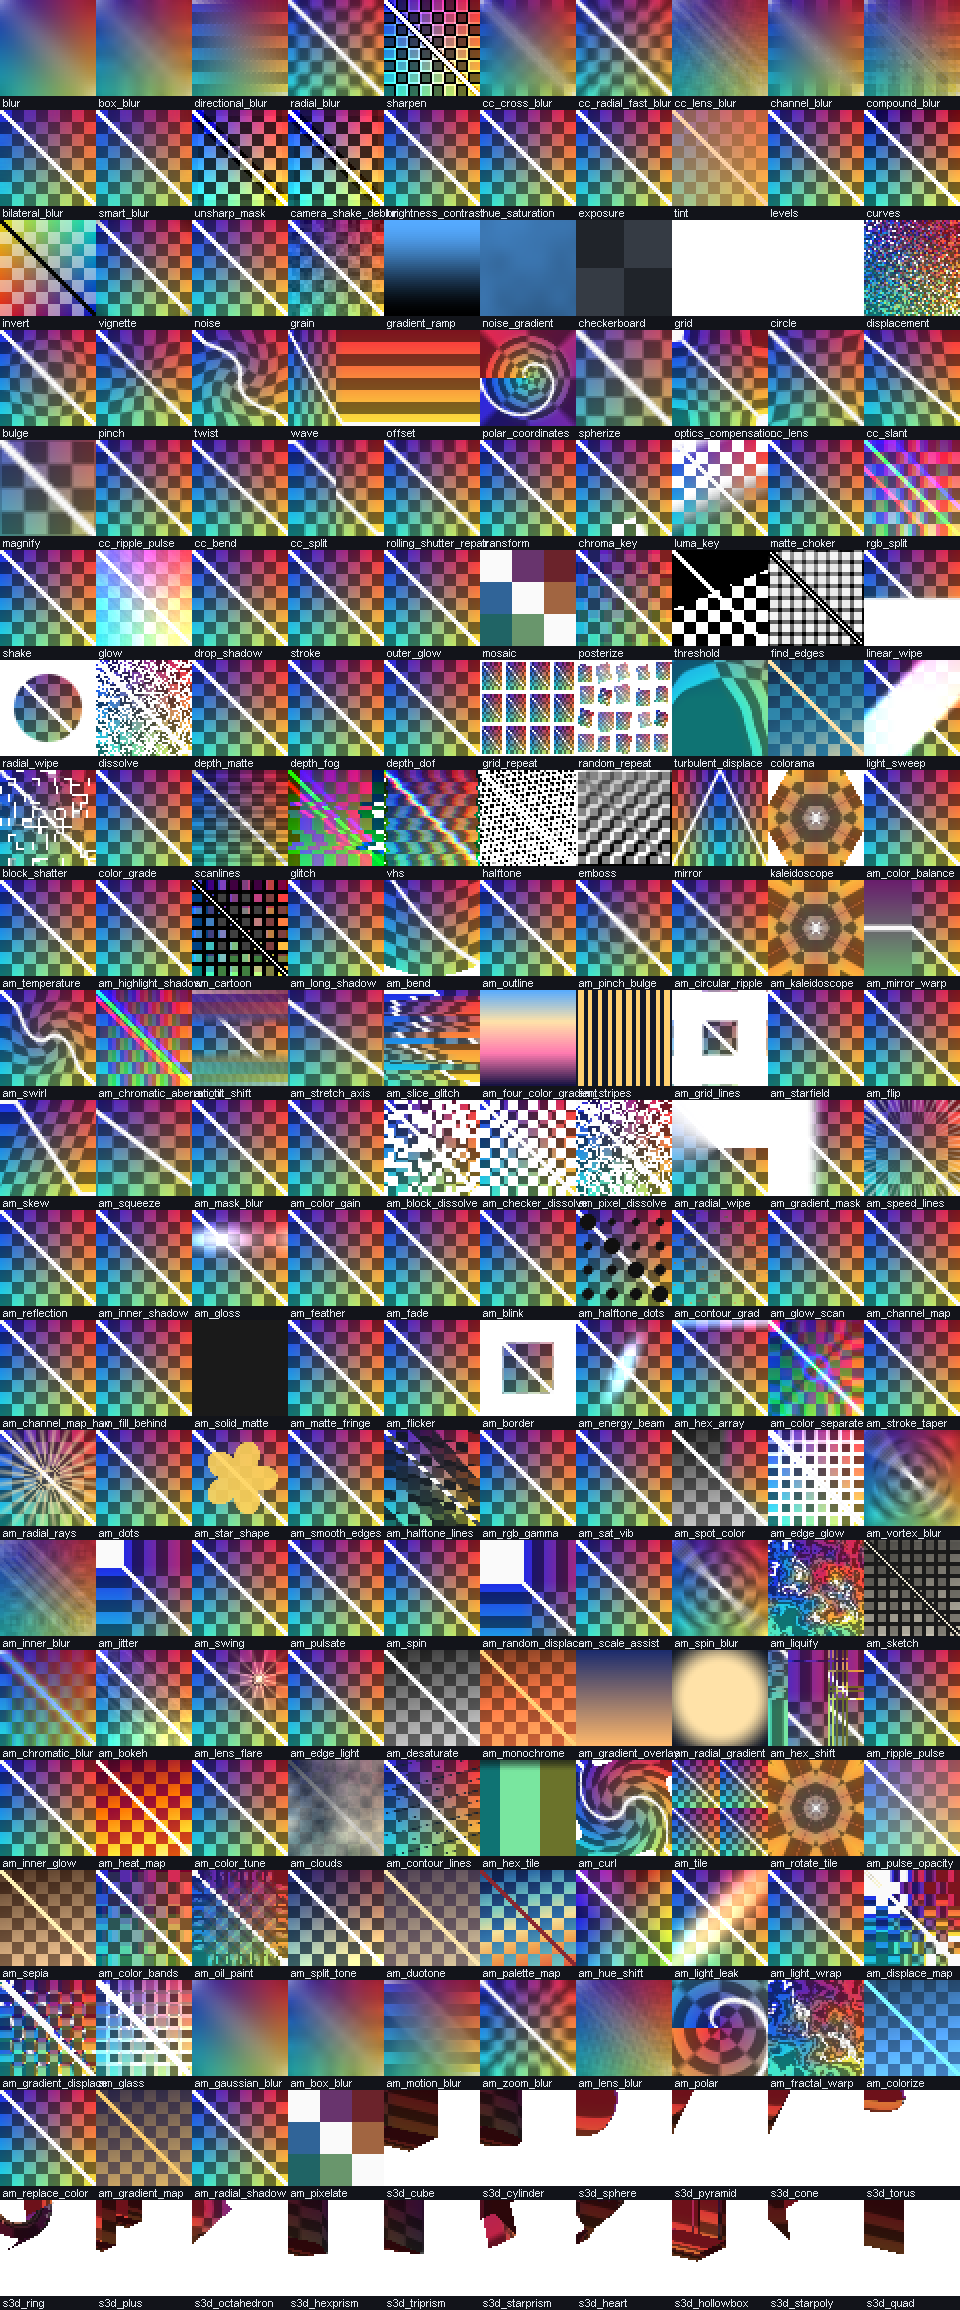
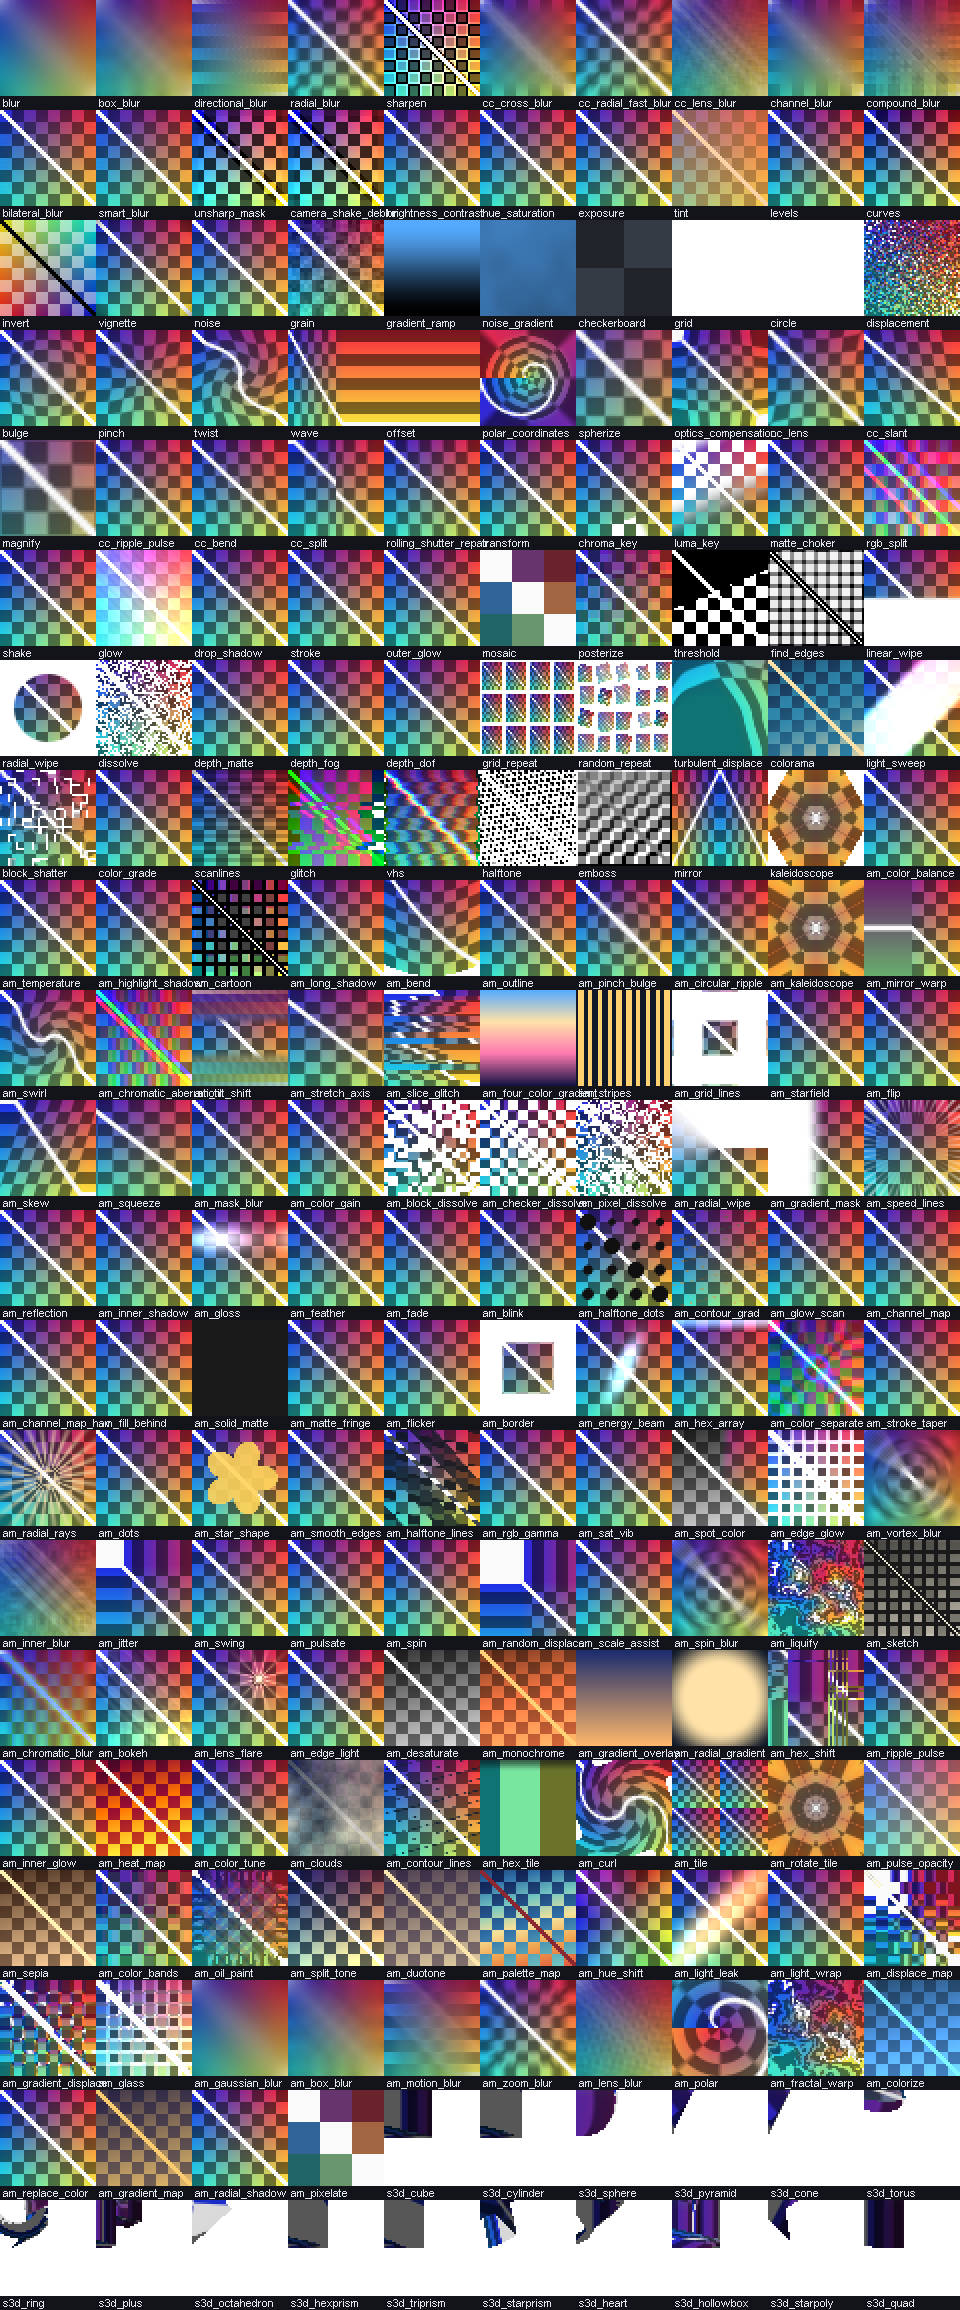
feat(0.61): 3D shape effects now work on 2D layers too
- Composition-space mesh effects render into a layer-sized surface first, then place that surface as
  a quad at the layer's projected rectangle. The old path sampled the whole composition on every
  face, which is why 2D layers showed wrong content.
- Fixed a real fragment-shader bug: uv = uv * repeat + 0.5 shifted every textured mesh sample into
  the wrong quadrant (blank/misplaced shapes). It is now (uv - 0.5) * repeat + 0.5 + offset, an
  identity at the defaults. The same textual replacement had leaked into the distort and wave
  shaders (undefined uniforms); both were reverted, which the link tests caught.
- Evidence: docs/verify/round34-all-shapes.png shows all 16 primitives in one frame on 2D layers;
  docs/verify/round34-cube3d.png is the baked 3D path.
- New debug: bbsaeAllShapes grid scenario and surface dumping; project data backed up/restored
  around every client run.
- 334 tests green; 130 effects. Release bbsae-0.61.jar
  (SHA-256 AA76C86A8051468E2CEE6D6D11E37ECB5CA454B639FBD1CE9B3A4867E8DA1784).

diff --git a/src/main/java/dev/bbsae/client/render/MeshRenderer.java b/src/main/java/dev/bbsae/client/render/MeshRenderer.java
@@ -14,10 +14,18 @@ import java.util.Map;
  * Renders the 3D shape effects ({@code s3d_*}).
  *
  * <p>A shape effect replaces the layer's flat raster with a textured primitive: the layer content
- * is the surface texture, the primitive is placed at the layer's bounds and transformed by the same
- * world matrix and projection the layer itself uses. Meshes are convex, so back-face culling alone
- * resolves occlusion and the existing colour-only framebuffers are enough (no depth attachment, no
- * changes to the render graph).</p>
+ * is the surface texture, the primitive is placed at the layer's bounds. Meshes are convex, so
+ * back-face culling alone resolves occlusion and the colour-only framebuffers are enough.</p>
+ *
+ * <p>Two entry paths exist:</p>
+ * <ul>
+ *   <li><b>layer-local bake</b> (3D layers): the input is the layer's own raster, so the primitive
+ *       is drawn with an ortho projection that fills it;</li>
+ *   <li><b>composition pass</b> (2D layers): the input is a composition-sized framebuffer, so the
+ *       primitive is first drawn into a layer-sized target and that target is then drawn as a quad
+ *       at the layer's projected rectangle. Sampling the composition directly stretched the whole
+ *       composition across every face, which was the "3D effect looks wrong on 2D layers" bug.</li>
+ * </ul>
  */
 public final class MeshRenderer
 {
@@ -65,96 +73,150 @@ public final class MeshRenderer
 
         String shape = effect.type.substring(4);
         Mesh mesh = mesh(shape);
-        GlFramebuffer output = FboPool.acquire(input.width, input.height);
-
-        /* Two coordinate spaces reach this renderer:
-         * - the layer-local bake (3D layers, styles): the input IS the layer raster, so the
-         *   primitive simply fills it with an ortho projection;
-         * - the composition pass (2D layers): the input is comp-space, so the primitive is placed
-         *   inside the layer's projected screen bounds.
-         * Using the camera/model matrix in the bake was the bug that made 3D shapes tiny and
-         * offset: their pixels were layer-local but the matrix was composition-space. */
-        boolean local = context.layerLocalPass;
-        float targetWidth = Math.max(1F, output.width);
-        float targetHeight = Math.max(1F, output.height);
-        Matrix4f projection;
-        float centreX;
-        float centreY;
-        float width;
-        float height;
-
-        if (local)
-        {
-            projection = new Matrix4f().setOrtho(0F, targetWidth, targetHeight, 0F, -10000F, 10000F);
-            centreX = targetWidth * 0.5F;
-            centreY = targetHeight * 0.5F;
-            width = targetWidth;
-            height = targetHeight;
-        }
-        else
-        {
-            projection = new Matrix4f().setOrtho(0F, targetWidth, targetHeight, 0F, -10000F, 10000F);
-            float halfW = Math.max(1F, Math.abs(layer.width)) * 0.5F;
-            float halfH = Math.max(1F, Math.abs(layer.height)) * 0.5F;
-            Vector2f centre = CompScene.project(context, layer, 0F, 0F, 0F);
-            float scaleX = targetWidth / Math.max(1F, context.width);
-            float scaleY = targetHeight / Math.max(1F, context.height);
-            centreX = centre.x * scaleX;
-            centreY = centre.y * scaleY;
-            width = Math.max(1F, halfW * 2F * scaleX);
-            height = Math.max(1F, halfH * 2F * scaleY);
-        }
-
-        float depth = Math.max(1F, height * Math.max(0.05F, effect.valueF("depth", 0.5F)));
         float scale = Math.max(0.01F, effect.valueF("scale", 1F));
+        float depthFactor = Math.max(0.05F, effect.valueF("depth", 0.5F));
 
-        Matrix4f localMatrix = new Matrix4f()
-            .translate(centreX, centreY, 0F)
+        Matrix4f layerProjection = CompScene.projection(context, layer);
+        Matrix4f layerModel = CompScene.model(context, layer);
+        Matrix4f layerMvp = new Matrix4f(layerProjection).mul(layerModel);
+        float compWidth = Math.max(1F, context.width);
+        float compHeight = Math.max(1F, context.height);
+        float halfW = Math.abs(layer.width) * 0.5F;
+        float halfH = Math.abs(layer.height) * 0.5F;
+        float minX = Float.MAX_VALUE;
+        float minY = Float.MAX_VALUE;
+        float maxX = -Float.MAX_VALUE;
+        float maxY = -Float.MAX_VALUE;
+
+        for (int i = 0; i < 4; i++)
+        {
+            float x = (i == 0 || i == 3) ? -halfW : halfW;
+            float y = (i < 2) ? -halfH : halfH;
+            org.joml.Vector4f p = layerMvp.transform(new org.joml.Vector4f(x, y, 0F, 1F));
+            float w = Math.abs(p.w) < 0.0001F ? 1F : p.w;
+            float ndcX = p.x / w;
+            float ndcY = p.y / w;
+            float px = (ndcX * 0.5F + 0.5F) * compWidth;
+            float py = (1F - (ndcY * 0.5F + 0.5F)) * compHeight;
+
+            minX = Math.min(minX, px);
+            maxX = Math.max(maxX, px);
+            minY = Math.min(minY, py);
+            maxY = Math.max(maxY, py);
+        }
+
+        float rectWidth = Math.max(1F, maxX - minX);
+        float rectHeight = Math.max(1F, maxY - minY);
+        Vector2f surfaceUvScale = new Vector2f(rectWidth / compWidth, -rectHeight / compHeight);
+        Vector2f surfaceUvOffset = new Vector2f(minX / compWidth, 1F - minY / compHeight);
+
+        if (context.layerLocalPass)
+        {
+            /* The input is the layer raster: fill it with the primitive. */
+            float width = Math.max(1F, input.width);
+            float height = Math.max(1F, input.height);
+            GlFramebuffer output = FboPool.acquire(input.width, input.height);
+            Matrix4f projection = new Matrix4f().setOrtho(0F, width, height, 0F, -10000F, 10000F);
+            Matrix4f model = new Matrix4f()
+                .translate(width * 0.5F, height * 0.5F, 0F)
+                .rotateX((float) Math.toRadians(effect.valueF("rotate_x", 0F)))
+                .rotateY((float) Math.toRadians(effect.valueF("rotate_y", 0F)))
+                .rotateZ((float) Math.toRadians(effect.valueF("rotate_z", 0F)))
+                .scale(width * scale, height * scale, Math.max(1F, height * depthFactor) * scale);
+
+            drawMesh(program, mesh, new Matrix4f(projection).mul(model), input, output, effect, false,
+                new Vector2f(1F, 1F), new Vector2f(0F, 0F));
+
+            return output;
+        }
+
+        /* Composition pass: draw the primitive into a layer-sized target first, then place that
+         * target as a quad at the layer's projected rectangle. */
+        float scaleX = input.width / compWidth;
+        float scaleY = input.height / compHeight;
+        int layerWidth = Math.max(1, Math.round(Math.abs(layer.width) * scaleX));
+        int layerHeight = Math.max(1, Math.round(Math.abs(layer.height) * scaleY));
+        GlFramebuffer surface = FboPool.acquire(layerWidth, layerHeight);
+        Matrix4f surfaceProjection = new Matrix4f().setOrtho(0F, layerWidth, layerHeight, 0F, -10000F, 10000F);
+        Matrix4f surfaceModel = new Matrix4f()
+            .translate(layerWidth * 0.5F, layerHeight * 0.5F, 0F)
             .rotateX((float) Math.toRadians(effect.valueF("rotate_x", 0F)))
             .rotateY((float) Math.toRadians(effect.valueF("rotate_y", 0F)))
             .rotateZ((float) Math.toRadians(effect.valueF("rotate_z", 0F)))
-            .scale(width * scale, height * scale, depth * scale);
-        Matrix4f mvp = new Matrix4f(projection).mul(localMatrix);
+            .scale(layerWidth * scale, layerHeight * scale, Math.max(1F, layerHeight * depthFactor) * scale);
 
-        if (Boolean.getBoolean("bbsae.debugMeshLog"))
+        drawMesh(program, surfaceMesh(shape), new Matrix4f(surfaceProjection).mul(surfaceModel), input, surface, effect, false,
+            surfaceUvScale, surfaceUvOffset);
+
+        if (Boolean.getBoolean("bbsae.debugDumpSurface"))
         {
-            org.slf4j.LoggerFactory.getLogger("bbsae").info(
-                "mesh {} local={} layer {}x{} output {}x{} mvp m00={} m11={} m22={} m33={} m30={} m31={} verts={} idx={}",
-                shape, local, layer.width, layer.height, output.width, output.height,
-                mvp.m00(), mvp.m11(), mvp.m22(), mvp.m33(), mvp.m30(), mvp.m31(),
-                mesh.data.length / Mesh.STRIDE, mesh.indices.length);
+            try
+            {
+                java.awt.image.BufferedImage image = new java.awt.image.BufferedImage(
+                    surface.width, surface.height, java.awt.image.BufferedImage.TYPE_INT_ARGB);
+                image.setRGB(0, 0, surface.width, surface.height, surface.readTopDown(), 0, surface.width);
+                java.io.File file = new java.io.File(
+                    net.minecraft.client.MinecraftClient.getInstance().runDirectory, "screenshots/mesh-surface.png");
+                file.getParentFile().mkdirs();
+                javax.imageio.ImageIO.write(image, "png", file);
+                org.slf4j.LoggerFactory.getLogger("bbsae").info(
+                    "mesh surface dump {}x{} rect [{},{}]-[{},{}] uv {}x{} off {}x{}",
+                    surface.width, surface.height, minX, minY, maxX, maxY,
+                    surfaceUvScale.x, surfaceUvScale.y, surfaceUvOffset.x, surfaceUvOffset.y);
+            }
+            catch (Exception e)
+            {
+                org.slf4j.LoggerFactory.getLogger("bbsae").error("mesh surface dump failed", e);
+            }
         }
 
-        output.begin();
+        GlFramebuffer output = FboPool.acquire(input.width, input.height);
+        Matrix4f quadProjection = new Matrix4f().setOrtho(0F, compWidth, compHeight, 0F, -10000F, 10000F);
+        Matrix4f quadModel = new Matrix4f()
+            .translate((minX + maxX) * 0.5F, (minY + maxY) * 0.5F, 0F)
+            .scale(rectWidth, rectHeight, 1F);
+
+        drawMesh(program, surfaceQuad(), new Matrix4f(quadProjection).mul(quadModel), surface, output, effect, true,
+            new Vector2f(1F, 1F), new Vector2f(0F, 0F));
+        FboPool.release(surface);
+
+        return output;
+    }
+
+    private static void drawMesh(GlslProgram program, Mesh mesh, Matrix4f mvp, GlFramebuffer source,
+                                 GlFramebuffer target, CompEffect effect, boolean unlit,
+                                 Vector2f uvScale, Vector2f uvOffset)
+    {
+        target.begin();
         GlStateManager._disableBlend();
         GlStateManager._disableDepthTest();
         GlStateManager._enableCull();
         GL11.glFrontFace(GL11.GL_CW);
         program.use();
-        PassRenderer.bind(program, "Source", 0, input);
+        PassRenderer.bind(program, "Source", 0, source);
         program.set("Mvp", mvp);
 
         Matrix4f normalMatrix = new Matrix4f(mvp).invert().transpose();
         program.set("NormalMatrix", normalMatrix);
+
         float azimuth = (float) Math.toRadians(effect.valueF("light_angle", 135F));
         float elevation = (float) Math.toRadians(effect.valueF("light_elevation", 35F));
         program.set("LightDir",
             (float) Math.cos(elevation) * (float) Math.cos(azimuth),
             (float) Math.sin(elevation),
             (float) Math.cos(elevation) * (float) Math.sin(azimuth));
-        program.set("Ambient", Math.max(0F, effect.valueF("ambient", 0.35F)));
-        program.set("Intensity", Math.max(0F, effect.valueF("light_intensity", 0.9F)));
+        program.set("Ambient", unlit ? 1F : Math.max(0F, effect.valueF("ambient", 0.35F)));
+        program.set("Intensity", unlit ? 0F : Math.max(0F, effect.valueF("light_intensity", 0.9F)));
         program.set("Shine", Math.max(1F, effect.valueF("shine", 24F)));
-        program.set("TexRepeat", Math.max(0.01F, effect.valueF("tex_repeat", 1F)),
-            Math.max(0.01F, effect.valueF("tex_repeat", 1F)));
+        float repeat = Math.max(0.01F, effect.valueF("tex_repeat", 1F));
+        program.set("TexRepeat", repeat, repeat);
         program.set("TexOffset", effect.valueF("tex_offset_x", 0F), effect.valueF("tex_offset_y", 0F));
         program.set("TexAngle", effect.valueF("tex_angle", 0F));
-
+        program.set("UvScale", uvScale.x, uvScale.y);
+        program.set("UvOffset", uvOffset.x, uvOffset.y);
         mesh.draw();
         GL11.glFrontFace(GL11.GL_CCW);
         GlStateManager._disableCull();
-
-        return output;
     }
 
     private static Mesh mesh(String shape)
@@ -178,6 +240,18 @@ public final class MeshRenderer
             case "quad" -> MeshShapes.quad();
             default -> MeshShapes.cube();
         });
+    }
+
+    /** Shape used to fill the layer-sized surface: same primitive. */
+    private static Mesh surfaceMesh(String shape)
+    {
+        return mesh(shape);
+    }
+
+    /** Unit quad used to place the finished surface into the composition. */
+    private static Mesh surfaceQuad()
+    {
+        return mesh("quad");
     }
 
     public static void delete()

diff --git a/src/main/java/dev/bbsae/client/render/ShaderSources.java b/src/main/java/dev/bbsae/client/render/ShaderSources.java
@@ -49,6 +49,10 @@ public final class ShaderSources
         uniform vec2 TexRepeat;
         uniform vec2 TexOffset;
         uniform float TexAngle;
+        /* Mesh UVs are 0..1 per primitive; these map them onto the layer's rectangle inside the
+         * source framebuffer (identity in the layer-local bake). */
+        uniform vec2 UvScale;
+        uniform vec2 UvOffset;
 
 
         in vec2 vUv;
@@ -57,11 +61,14 @@ public final class ShaderSources
 
         void main()
         {
-            vec2 uv = vUv;
+            vec2 uv = UvOffset + vUv * UvScale;
             float ca = cos(radians(TexAngle));
             float sa = sin(radians(TexAngle));
             uv = vec2(ca * uv.x - sa * uv.y, sa * uv.x + ca * uv.y);
-            uv = uv * max(TexRepeat, vec2(0.01)) + 0.5 + TexOffset;
+            /* Repeat around the tile centre; with repeat = 1 and offset = 0 this is the identity,
+             * so the mapped UV reaches the shader unchanged. The old +0.5 shift sampled the wrong
+             * quadrant of the source and made textured 3D shapes come out blank. */
+            uv = (uv - 0.5) * max(TexRepeat, vec2(0.01)) + 0.5 + TexOffset;
             uv = length(TexRepeat - vec2(1.0)) > 0.0001 ? fract(uv) : clamp(uv, 0.0, 1.0);
             vec4 texel = texture(Source, uv);
             float ndl = max(dot(normalize(vNormal), normalize(LightDir)), 0.0);

diff --git a/README.md b/README.md
@@ -110,15 +110,15 @@ export** without touching the `.dat` film format.
 
 ## Download / Install
 
-1. Download [`bbsae-0.60.jar`](https://github.com/zhongend/bbsae/releases/download/v0.60/bbsae-0.60.jar)
-   from the **v0.60** release (the asset is updated with each source push).
+1. Download [`bbsae-0.61.jar`](https://github.com/zhongend/bbsae/releases/download/v0.61/bbsae-0.61.jar)
+   from the **v0.61** release (the asset is updated with each source push).
 2. Install **Minecraft 1.20.1**, **Fabric Loader 0.16.14+**, **Fabric API 0.92.1+1.20.1** and
    **BBS FS 2.7-1.20.1**.
-3. Put `bbsae-0.60.jar` and the BBS FS jar into the game's `mods/` folder.
+3. Put `bbsae-0.61.jar` and the BBS FS jar into the game's `mods/` folder.
 4. Launch the game, open a film in BBS, select a replay, then use
    **Replay properties → Compositor → Open Film Compositor**.
 
[2 lines of base64/hex data omitted]
 
 ## Gallery
 
@@ -185,6 +185,18 @@ The compositor does not re-encode films or patch `.dat` files. BBS serializes a 
 `RegisterFrameOverlaysEvent` point. That means the same composition appears in BBS's preview and in
 its FFmpeg film export, and BBS keeps ownership of keyframes, undo, project storage and video
 encoding.
+
+## What's new in 0.61 — 3D shapes now work on 2D layers too
+
+- Composition-space mesh effects render into a **layer-sized surface** first and then place that
+  surface as a quad at the layer's projected rectangle. The previous path sampled the whole
+  composition on every face, which is why they looked wrong on 2D layers.
+- Fixed a long-standing fragment-shader bug: `uv = uv * repeat + 0.5` shifted every textured mesh
+  sample into the wrong quadrant of the source (shapes appeared blank or misplaced). It is now
+  `(uv - 0.5) * repeat + 0.5 + offset`, an identity at the defaults.
+- Evidence: `docs/verify/round34-all-shapes.png` shows **all 16 primitives in one frame** on 2D
+  layers, and `docs/verify/round34-cube3d.png` is the 3D baked path.
+- 334 tests green; 130 effects.
 
 ## What's new in 0.60 — 3D shape rendering verified in the client
 

diff --git a/docs/EFFECT-LIBRARY-PLAN.zh.md b/docs/EFFECT-LIBRARY-PLAN.zh.md
@@ -188,8 +188,11 @@ switch 中拆出来：
     - 缝隙不是几何问题：把图层做成满幅纹理后立方体各面严丝合缝（
       `docs/verify/round33-cube-fill.png`）。此前的"缝隙"是源纹理的透明边距被采样到面上，
       属于素材透明区域的正常表现。
-    - 2D 图层的网格效果仍不完整：合成阶段采样的是整幅合成纹理而非图层矩形，
-      所以 2D 图层上的 3D 图元外观不正确（已记录为 open issue，3D 图层路径已验证正确）。
+    - 2D 图层网格效果已修复（0.61）：先画到图层尺寸的 surface，再作为贴图四边形放到图层的
+      投影矩形；同时修掉 fragment 里 `uv = uv * repeat + 0.5` 的偏移 bug——它让所有带纹理的
+      网格采样到源纹理的错误象限（表现为"空白/错位"）。
+    - 证据：`docs/verify/round34-all-shapes.png` 一帧里 16 个图元全部可见；
+      `docs/verify/round34-cube3d.png` 为 3D 图层烘焙路径的立方体。
 
 4.36 **3D 图元真机定位排查（进行中，未完成）**
     - 无头对照表里 15 个图元都正常；真机预览里图元显示得比图层边界小、位置偏移。
